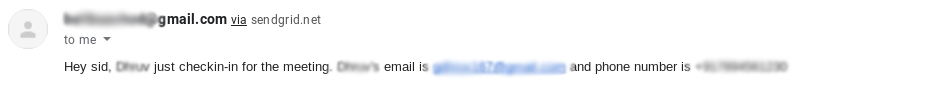
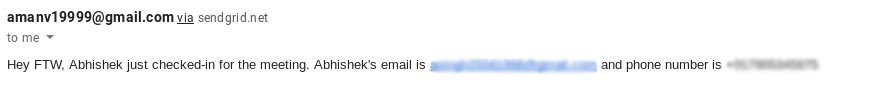
Added screenshot of email sent to guest

Changed region(s): [[0.0, 0.5644, 0.9544, 0.7426], [0.0, 0.0891, 0.3387, 0.2673], [0.0, 0.297, 0.1231, 0.4158]]

diff --git a/README.md b/README.md
@@ -154,7 +154,10 @@ Pictures of project.
 
 - SMS sent to Host
 
-  ![SMS sent to host](assets/hostSMSSend.png)
+  ![SMS sent to host](assets/hostSmsSend.jpg)
+
+- Email sent to Guest
+   ![Email sent to host](assets/guestEmail.png)
 
 ## :star2: Credit/Acknowledgment
 
